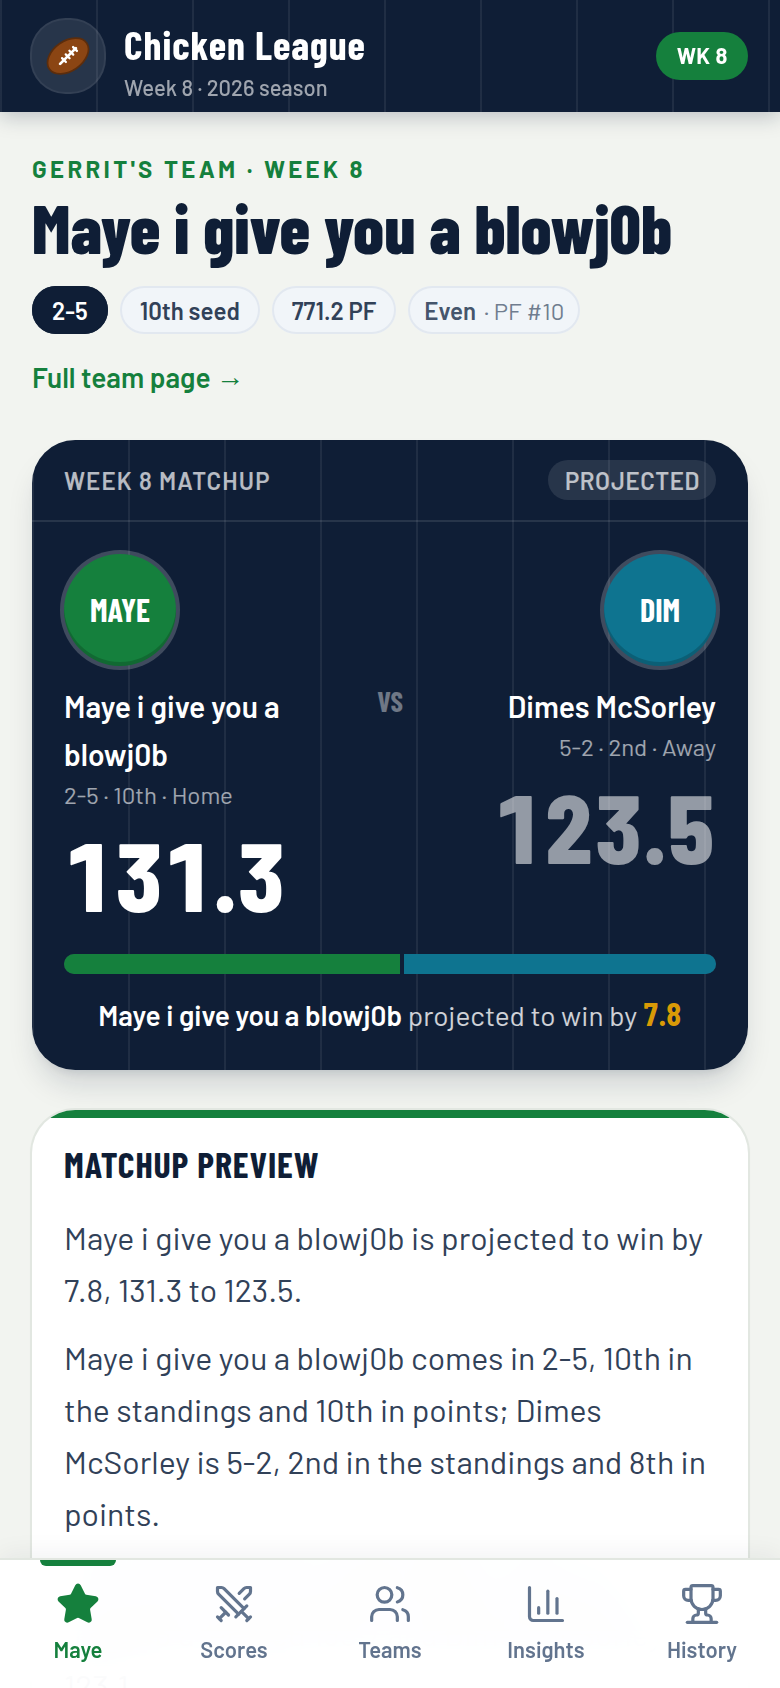
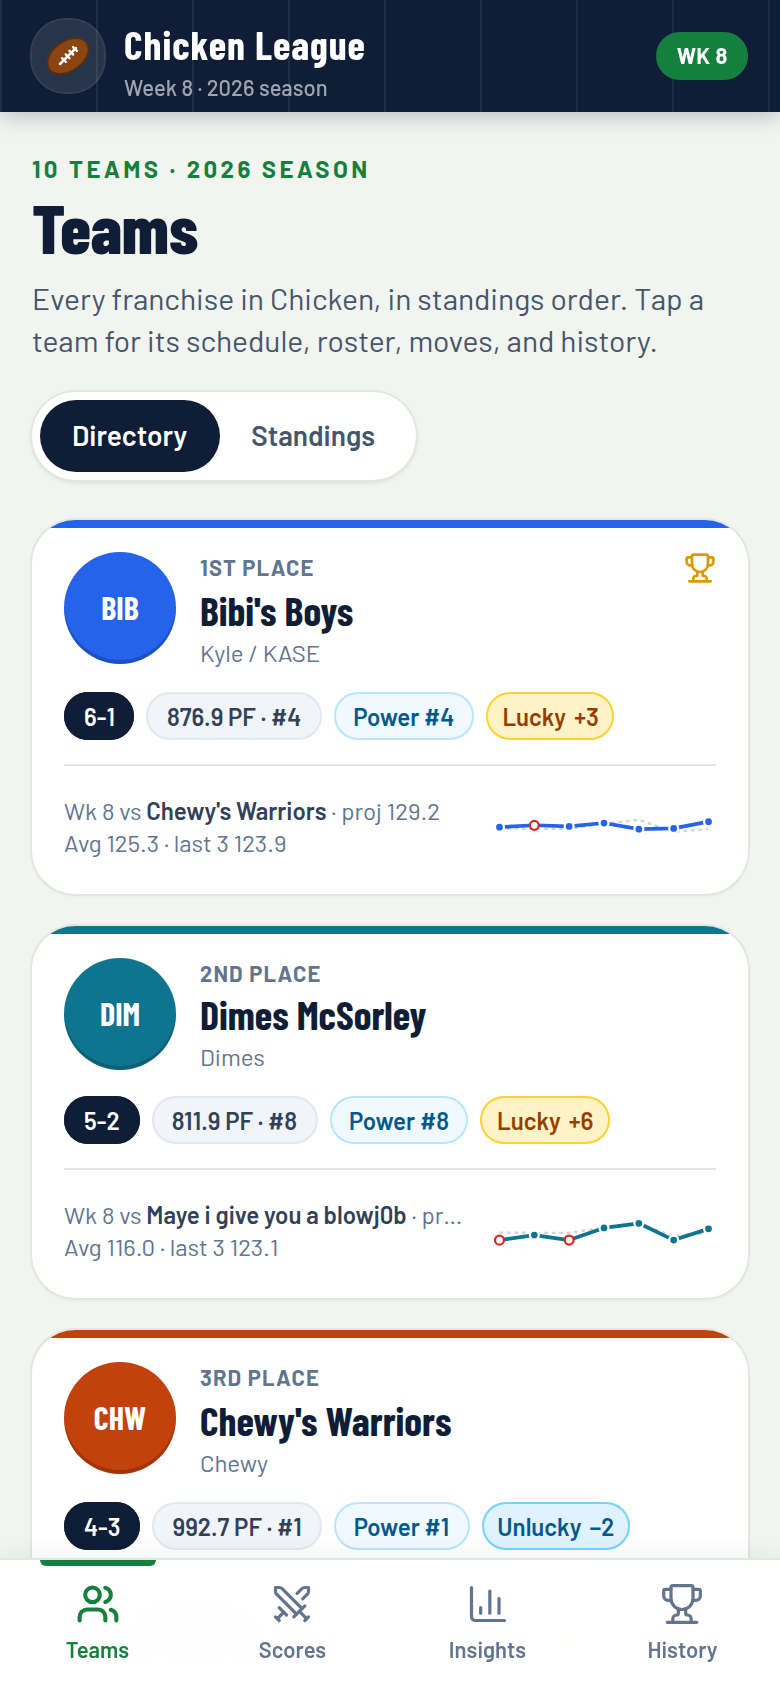
Update README and screenshots for the Teams home page

diff --git a/README.md b/README.md
@@ -4,20 +4,19 @@
 
 **Chicken League** is the fantasy football hub for the private ESPN **Chicken** league (2026, week 8). Every one of the 10 teams gets a page, all 5 week 8 games get a preview, and the insights and history cover the whole league. Everything is prerendered from two committed JSON files, so it deploys to Vercel with **zero secrets**.
 
-| Gerrit's matchup (`/`) | Team page | Teams | Insights |
+| Teams (`/`) | Team page | Matchup | Insights |
 | --- | --- | --- | --- |
-| ![Maye i give you a blowj0b matchup on iPhone](docs/mobile-home.png) | ![Team page on iPhone](docs/mobile-team.png) | ![Teams directory on iPhone](docs/mobile-teams.png) | ![Insights on iPhone](docs/mobile-insights.png) |
+| ![Teams directory on iPhone](docs/mobile-home.png) | ![Team page on iPhone](docs/mobile-team.png) | ![Matchup page on iPhone](docs/mobile-matchup.png) | ![Insights on iPhone](docs/mobile-insights.png) |
 
-![Maye i give you a blowj0b matchup on desktop](docs/desktop-home.png)
+![Teams directory on desktop](docs/desktop-home.png)
 
 ## Pages
 
 | Route | What it shows |
 | --- | --- |
-| `/` | Gerrit's **Maye i give you a blowj0b** (team 7) week 8 matchup. It uses the same layout as every `/matchups/[slug]` page. |
+| `/` | **Teams**, the home page: all 10 teams in standings order with record, PF and rank, power rank, luck, week 8 opponent, and recent form. A switch moves between it and `/standings`. `/teams` redirects here. |
 | `/matchups` | **Scores:** all 5 week 8 games with projections and a one-line preview, each linking to its matchup page, plus last week's final scores. |
 | `/matchups/[slug]` | One page per week 8 game: `maye-dim`, `bib-chw`, `epz-kab`, `smf-snd`, `jah-ah`. Each page has: <ul><li>A projected scorecard and a data-generated preview: story, edges for each side, and what's at stake.</li><li>A tale of the tape (projection, points for and rank, power rank, all-play, averages, best and worst week, swing, points against, opponents' average, close games, titles).</li><li>The two teams' **all-time head-to-head series** (record, points, last meeting, each side's biggest win, streaks) with a roast line.</li><li>Both teams' weekly scoring, team cards with history, the starters' injury report, head-to-head lineups, and both benches and IR.</li></ul> |
-| `/teams` | Directory of all 10 teams in standings order: record, PF and rank, power rank, luck, week 8 opponent, and recent form. A switch moves between it and `/standings`. |
 | `/teams/[id]` | One page per team. It has: <ul><li>Record, seed, power rank, luck, PF/PA with ranks, all-play record, close-game record, and ESPN's projected finish.</li><li>The week 8 matchup and a weekly score chart against the **league average**.</li><li>A results table with each week's margin over or under the league average.</li><li>Boom or bust, luck and strength of schedule, the injury report, and recent moves.</li><li>The full roster (starters, bench, IR).</li><li>An **all-time head-to-head** section: easiest opponent ("Personal ATM" / "Favorite snack"), nemesis ("Kryptonite" / "Who's your daddy"), biggest win, most embarrassing loss, best and worst week, closest win and loss, streaks, playoff résumé, and a record table against every opponent. Each card has a roast line generated from its numbers.</li><li>A trophy case and a 2020–2025 season-by-season table.</li></ul> |
 | `/standings` | Table with record, PF/PA, differential, PF rank, and a luck badge. Every team links to its page. |
 | `/insights` | League-wide insights over all 10 teams and all 35 games: <ul><li>At-a-glance leaders and the week 8 slate.</li><li>**Power rankings** (by all-play), the **luck meter** (PF rank vs standings, plus wins vs all-play), points for, and **strength of schedule** (opponents' average).</li><li>A record book: **high scores**, **closest games**, **bad beats**, biggest blowouts, the **weekly top scorer**, and close-game records.</li><li>**Consistency** (boom or bust) and a **head-to-head grid**.</li></ul> |
@@ -25,7 +24,7 @@
 | `/bibis` | Redirects to `/matchups/bib-chw` so old links keep working. |
 | `/live` | The original polling board, which can read a public ESPN league (optional, not in the nav). |
 
-On phones the nav is a five-tab bottom bar (Maye · Scores · Teams · Insights · History) that respects iPhone safe areas. Standings sits behind Teams. From `md` up the nav moves into the navy top bar and adds Standings. On `lg` screens matchup pages offer **TV mode**. Layouts are checked for horizontal overflow at 320, 390, and 1440 px on every route.
+On phones the nav is a four-tab bottom bar (Teams · Scores · Insights · History) that respects iPhone safe areas. Standings sits behind Teams. From `md` up the nav moves into the navy top bar (Teams · Standings · Scores · Insights · History). On `lg` screens matchup pages offer **TV mode**. Layouts are checked for horizontal overflow at 320, 390, and 1440 px on every route.
 
 ## Data
 
@@ -84,9 +83,9 @@ No environment variables are needed. The Vercel project `fantasy-board-demo` isn
 app/
   layout.tsx                 fonts, metadata, viewport (safe-area aware)
   (league)/layout.tsx        app chrome: navy top bar, bottom tab bar
-  (league)/page.tsx          / — Gerrit's matchup (team 7)
+  (league)/page.tsx          / — Teams directory (home)
   (league)/matchups/         /matchups (Scores) and /matchups/[slug]
-  (league)/teams/            /teams and /teams/[id]
+  (league)/teams/[id]/       /teams/[id]
   (league)/standings/        /standings
   (league)/insights/         /insights
   (league)/history/          /history
